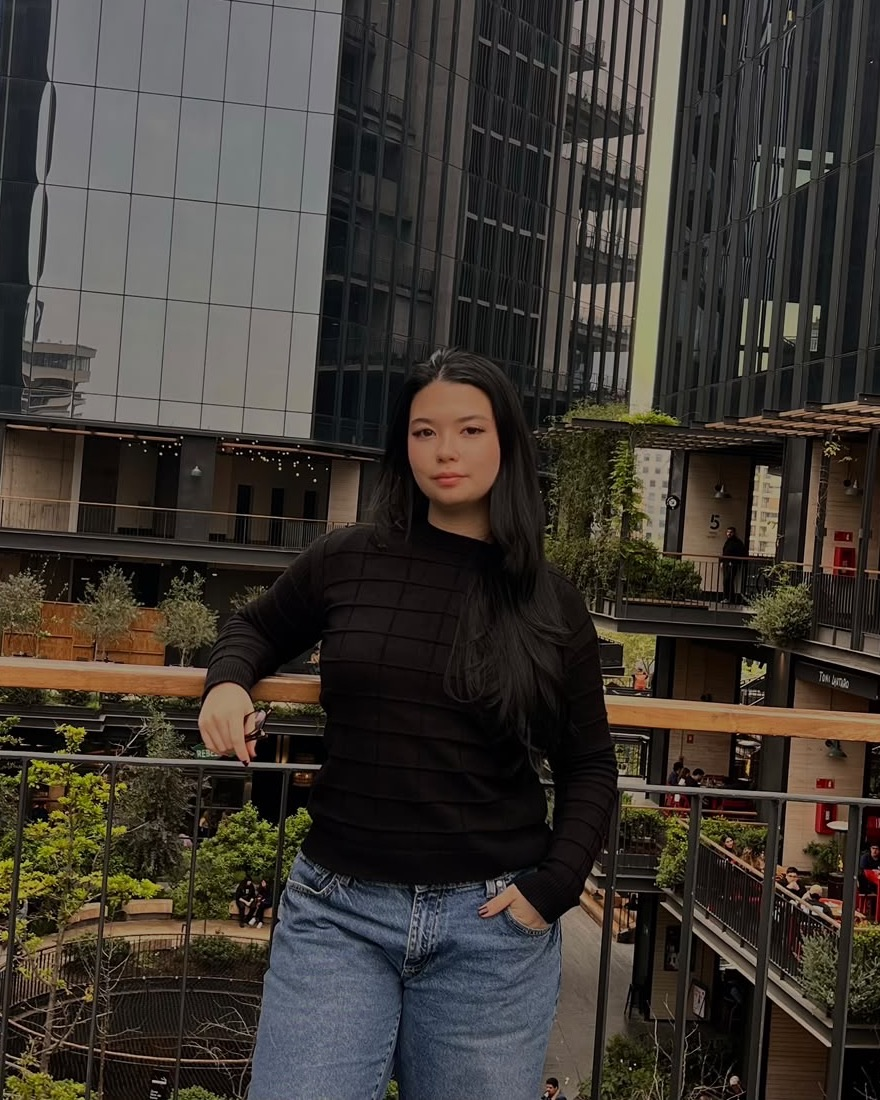
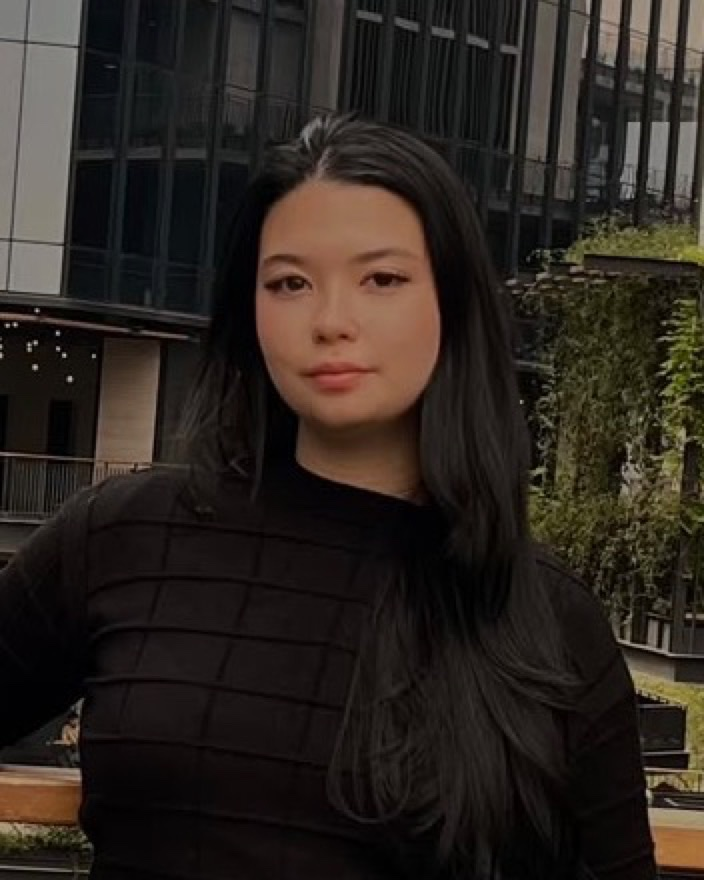
Aproxima a foto do topo

diff --git a/index.html b/index.html
@@ -73,7 +73,7 @@
           </div>
 
           <div class="hero__side">
-            <img class="hero__photo" src="img/eu.jpg" width="880" height="1100" alt="Sophia Akemi de blusa preta e calça jeans, encostada em um guarda-corpo entre prédios espelhados." />
+            <img class="hero__photo" src="img/eu.jpg" width="704" height="880" alt="Sophia Akemi de blusa preta, com prédios espelhados ao fundo." />
           </div>
         </div>
 </section>
